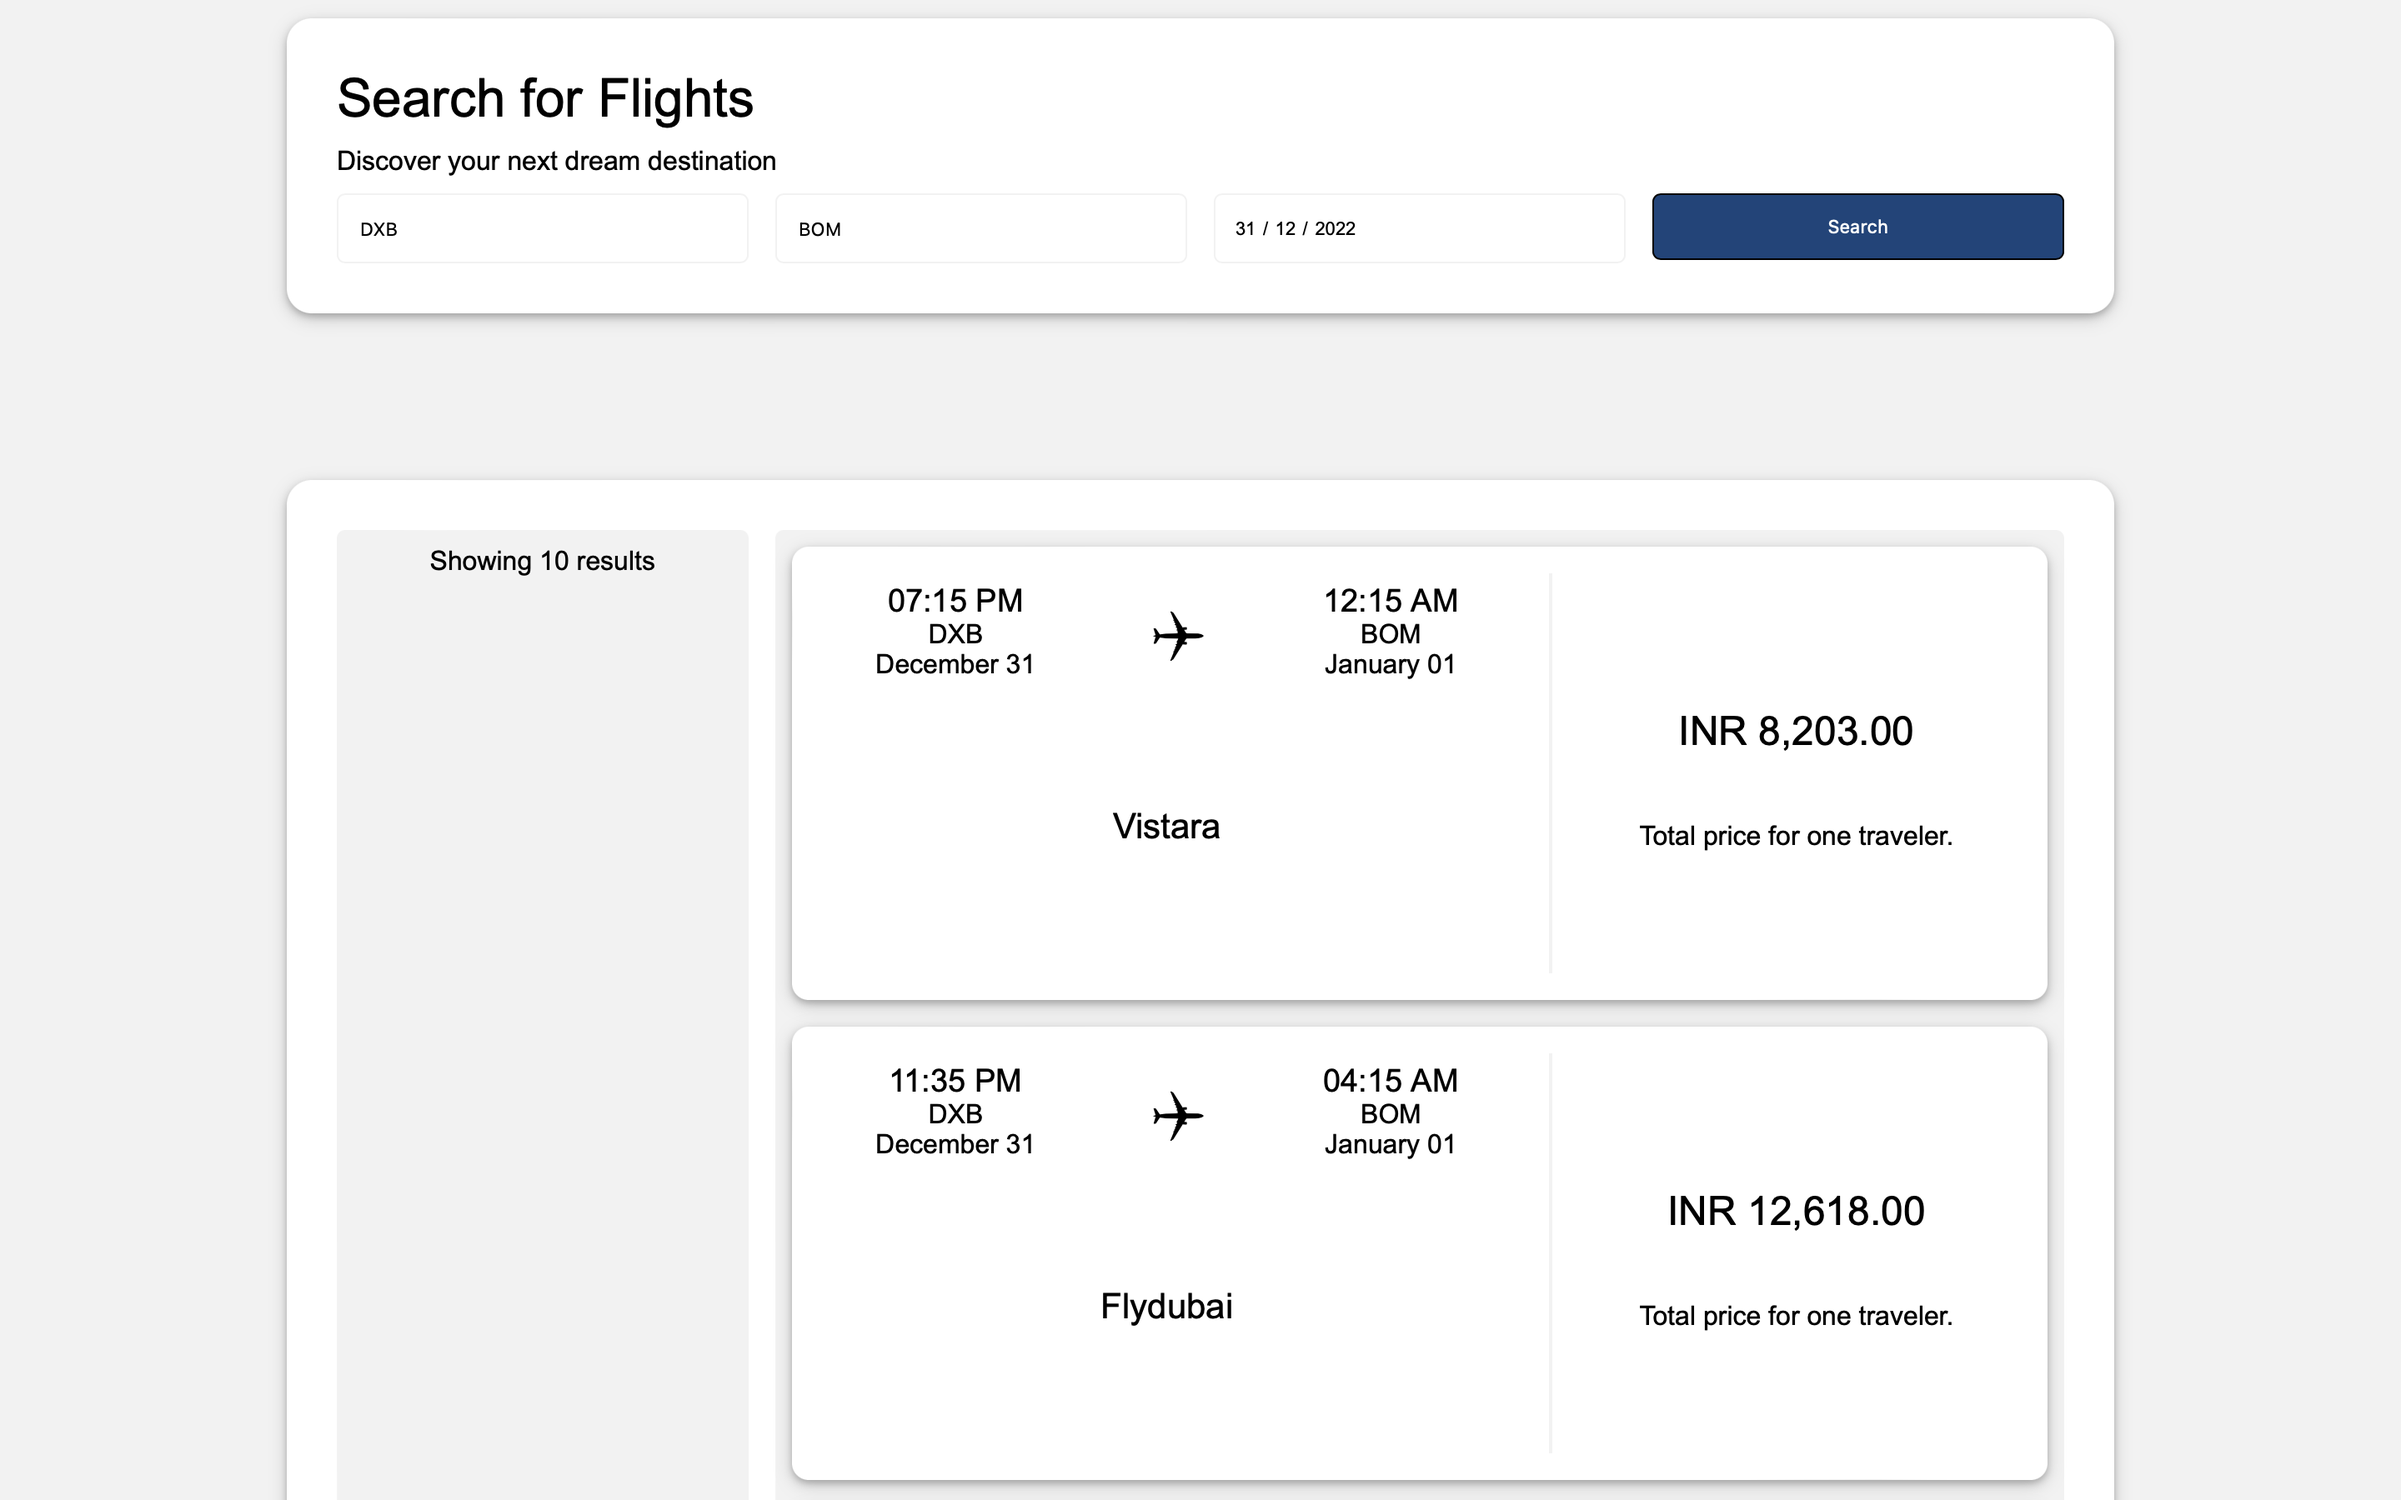
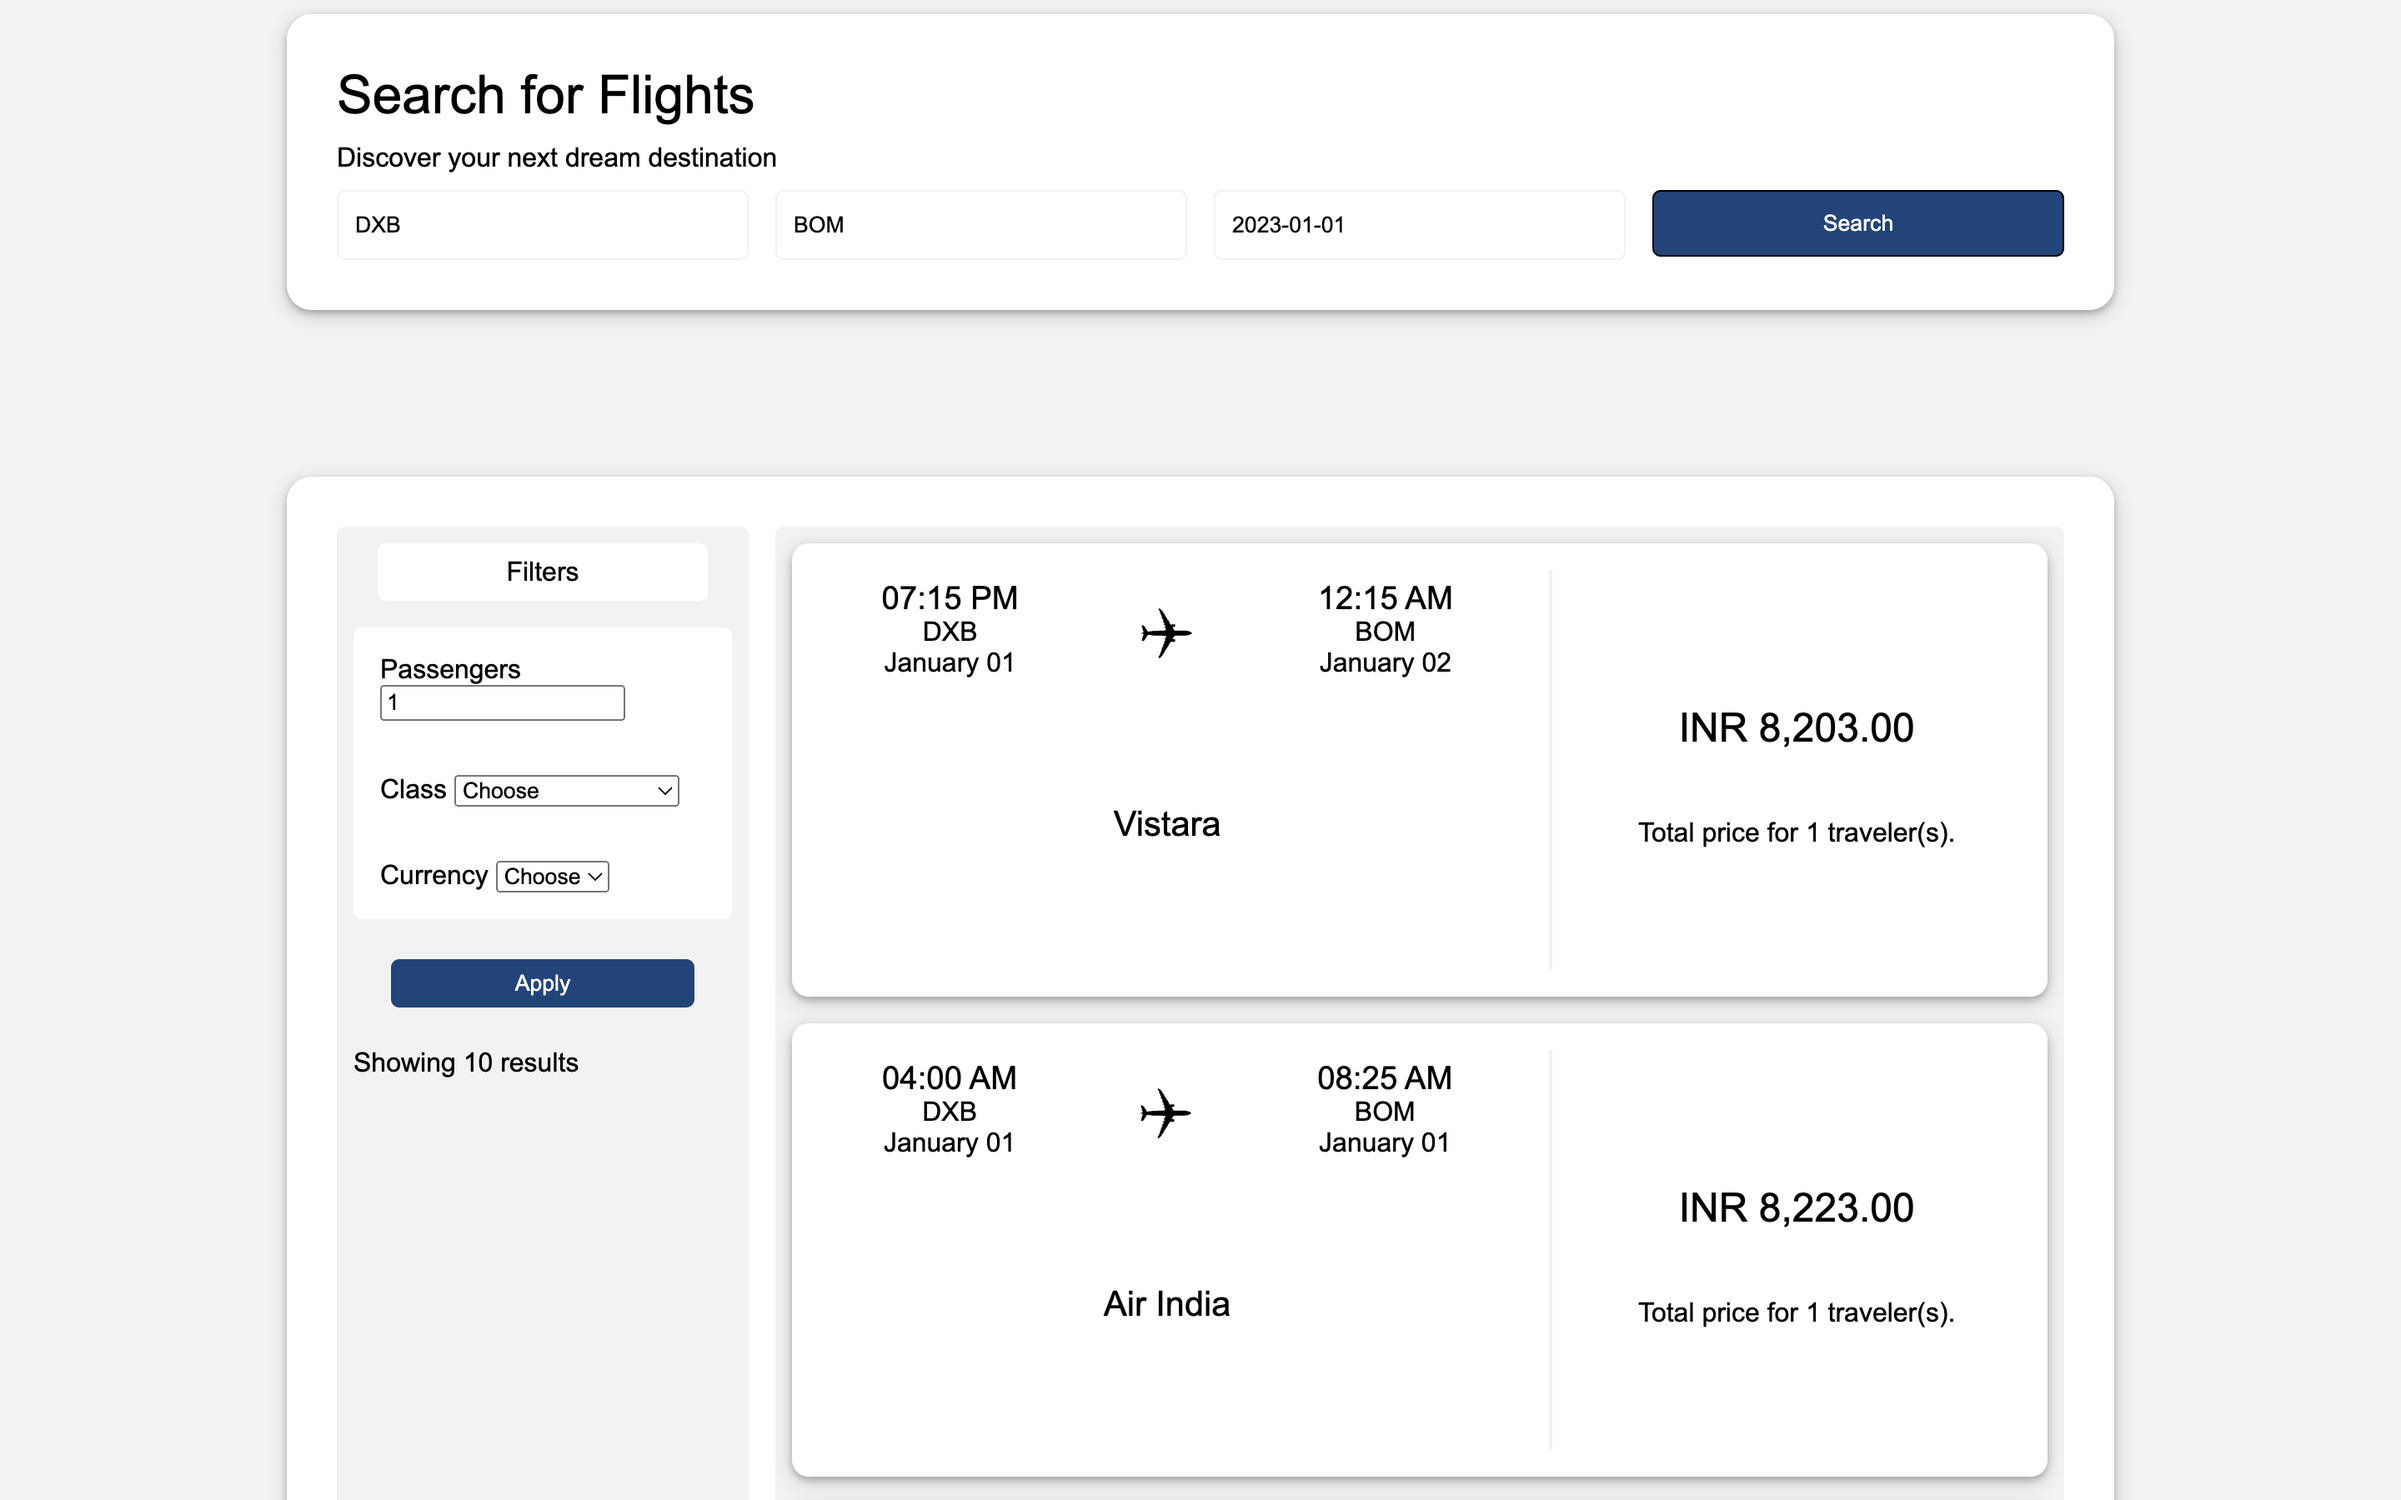
Added filters

diff --git a/templates/flights.html b/templates/flights.html
@@ -16,7 +16,7 @@
         <form action="/flights" method="post">
           <div class="searchbox">
               <div class="source-box">
-                  <input class="source-city" type="text" autocomplete="off" placeholder="Source" name="source">
+                  <input class="source-city" type="text" autocomplete="off" placeholder="Source" {%if dataset %}value="{{dataset[0]['source']}}"{%endif%} name="source">
                   <ul class="options-list">
                       <!-- <li class="source-option">
                           <div class="airport-name"> <span>BOM</span> Chhatrapati Shivaji International Airport</div>
@@ -25,25 +25,56 @@
                   </ul>
               </div> 
               <div class="destination-box">
-                  <input class="destination-city" type="text" autocomplete="off" placeholder="Destination" name="destination">
+                  <input class="destination-city" type="text" autocomplete="off" placeholder="Destination" v {%if dataset %}value="{{dataset[0]['destination']}}"{%endif%} name="destination">
                   <ul class="options-list">
                       <!-- <li class="destination-option">
                           <div class="airport-name"> <span>BOM</span> Chhatrapati Shivaji International Airport</div>
                           <div class="airport-location">Mumbai, Maharashtra, IN</div> -->
                   </ul>
               </div> 
-              <input type="text" placeholder="Departure" onfocus="(this.type='date')" name="departure">
+              <input type="text" placeholder="Departure" onfocus="(this.type='date')"  {%if dataset %}value="{{date}}"{%endif%} name="departure">
               <button type="submit" action="#">Search</button>
           </div>
-      </form>
     </div>
 </div>
 <div class="bg-light">
     {% if dataset %}
     <div class="flight-container"> 
          <div class="results-container"> 
-             <div class="filters">
+             <div class="filters-container">
+               <div class="title">Filters</div>
+               <div class="filters">
+                 <div class="passengers">
+                  Passengers
+                  <input type="number" name="passengers"  {%if dataset %}value="{{passengers}}"{%endif%} >
+                 </div>
+                 <div class="class">
+                    Class
+                    <select name="class">
+                      <option disabled selected>Choose</option>
+                      <option value="ECONOMY">Economy</option>
+                      <option value="PREMIUM_ECONOMY">Premium Economy</option>
+                      <option value="BUSINESS">Business</option>
+                      <option value="FIRST">First</option>
+                    </select>
+                 </div>
+                 <div class="currency">
+                  Currency
+                  <select name="currency">
+                    <option disabled selected>Choose</option>
+                    <option value="INR">INR</option>
+                    <option value="USD">USD</option>
+                    <option value="EUR">EUR</option>
+                    <option value="AED">AED</option>
+                  </select>
+                </div>
+               </div>
+               <div class="apply">
+                <button type="submit">Apply</button>
+               </div>
+               <div>
                 Showing {{results}} results
+               </div>
             </div>
             <div class="results">
                 {% for data in dataset %}
@@ -214,7 +245,7 @@
                     </div>
                     <div class="flight-price">
                         <p class="price"> {{data['price']}} </p>
-                        <p class="price-text">Total price for one traveler.</p>
+                        <p class="price-text">Total price for {{passengers}} traveler(s).</p>
                     </div>
                 </div>
                 {% endfor %}
@@ -222,6 +253,7 @@
         </div> 
      </div> 
     {% endif %}
+    </form>
 </div>
 {% endblock %}
 

diff --git a/static/styles.css b/static/styles.css
@@ -343,15 +343,48 @@ footer a {
     grid-template-columns: repeat(12, 1fr);;
 }
 
-.results-container .filters {
+.results-container .filters-container {
     padding: 10px;
     background-color: #f2f2f2;
     border-radius: 5px;
     grid-column: span 3/ auto;
     display: flex;
-    justify-content: center;
+    justify-content: flex-start;
+    align-items: flex-start;
+    flex-direction: column;
+    gap: 1rem;
+}
+
+.filters-container .title {
+    align-self: center;
+    border-radius: 5px;
+    background-color: white;
+    width: 80%;
+    padding: 0.5em;
+    text-align: center;
+}
+
+.apply {
+    align-self: center;
+    width: 80%;
+    padding: 0.5em;
+    text-align: center;
+}
+
+.apply button {
+    width: 100%;
+}
+
+.filters {
+    border-radius: 5px;
+    background-color: white;
+    padding: 1em;
+    display: flex;
+    flex-direction: column;
+    gap: 2rem;
     align-items: flex-start;
 }
+
 
 .results-container .results {
     border-radius: 5px;
@@ -520,7 +553,7 @@ footer a {
     align-items: center;
 }
 
-.bookmark-btn button, .track-btn button {
+.bookmark-btn button, .track-btn button, .apply button {
     border: none;
     background: #15457c;
     color: #fff;
@@ -605,7 +638,7 @@ svg {
     justify-content: flex-start;
 }
 
-.bookmarks-container {
+.bookmarks-container, .settings-container {
      width: 80%;
      max-width: 1036px;
      padding: 30px;
@@ -634,7 +667,7 @@ svg {
 }
 
 
-.track-btn button, .remove-btn button {
+.track-btn button, .remove-btn button, .apply button {
     min-width: 60px;
 }
 
@@ -653,6 +686,10 @@ svg {
     border: #D2001A solid 1px;
     background:#fff;
 }
+
+/* .settings-container {
+    border: 1px solid black;
+} */
 
 @media only screen and (max-width:700px) {
     .flight-container {
@@ -673,7 +710,7 @@ svg {
         padding: 10px;
     }
 
-    .results-container .filters {
+    .results-container .filters-container {
         grid-column: span 12/ auto;
     }
     

diff --git a/templates/layout.html b/templates/layout.html
@@ -16,6 +16,9 @@
                     <ul class="login-buttons">
                         {%if session["user_id"] %}
                         <li class="nav-item">
+                            <a class="nav-link" href="/settings">Settings</a>
+                        </li>
+                        <li class="nav-item">
                             <a class="nav-link" href="/logout">Log Out</a>
                         </li>
                         {% else %}

diff --git a/app.py b/app.py
@@ -146,15 +146,26 @@ def flights():
         destination = request.form.get("destination").upper().strip()
         date = request.form.get("departure")
 
+        passengers = request.form.get("passengers")
+        travelClass = request.form.get('class')
+        currency = request.form.get("currency")
+
+        if not passengers:
+            passengers = 1
+        if not travelClass:
+            travelClass = 'ECONOMY'
+        if not currency: 
+            currency = 'INR'
+
         # Validating input
         if not (source and destination and date):
             return apology("Invalid input")
 
         # Lookup data
-        dataset = lookup(source, destination, date)
+        dataset = lookup(source, destination, date, passengers, travelClass, currency)
         if dataset:
             info = extract_data(dataset)
-            return render_template("flights.html", dataset=info, results=len(info))
+            return render_template("flights.html", dataset=info, results=len(info), date=date, passengers=passengers)
         else:
             return apology("No results found")
 
@@ -229,3 +240,11 @@ def remove():
         flightCode = request.form.get("flight-iata")
         db.execute("DELETE FROM bookmarks WHERE flight_iata = ? AND user_id = ?", flightCode, session["user_id"])
     return redirect("/bookmarks")
+
+
+@app.route("/settings")
+def settings():
+    return render_template("settings.html")
+
+
+    

diff --git a/helpers.py b/helpers.py
@@ -44,7 +44,7 @@ def ssl_disabled_urlopen(endpoint):
     return urlopen(endpoint, context=context)
 
 
-def lookup(source, destination, date):
+def lookup(source, destination, date, passengers, travelClass, currency):
 
     # Query Amadeus API for flight tickets
     amadeus = Client(
@@ -58,10 +58,11 @@ def lookup(source, destination, date):
             originLocationCode=source,
             destinationLocationCode=destination,
             departureDate=date,
-            adults=1, 
+            adults=passengers,
+            travelClass=travelClass, 
             max=10,
             nonStop='true',
-            currencyCode='INR') 
+            currencyCode=currency) 
         return response.data
     except ResponseError:
         return None
@@ -172,3 +173,8 @@ def trackFlight(flightCode):
         return dataset
     except IndexError:
         return None
+
+
+
+
+        

diff --git a/README.md b/README.md
@@ -14,7 +14,7 @@ The Tracker page in the app includes a Google Map that shows the latest updated 
 - JavaScript
 - Python
 - Flask
-- SQL
+- SQLite
 
 ## Implementation
 
@@ -26,7 +26,7 @@ An autocomplete feature for the search box was implemented with the help of Java
 
 The backend server of this application has been implemented in Python. `app.py` is the main file that communicates with the front end of the application. Some helper functions are included in `helpers.py` to aid the process.
 
-The SQL database consists of four tables namely: airlines, airports, bookmarks and users. As the names suggest the IATA codes, along with other useful information, of various airlines and airports all over the world have been stored in `airlines` and `airports`. \
+The SQLite database consists of four tables namely: airlines, airports, bookmarks and users. As the names suggest the IATA codes, along with other useful information, of various airlines and airports all over the world have been stored in `airlines` and `airports`. \
 `bookmarks` is used to record the details of any flight the user wishes to keep a track of. 
 
 ## Features 
